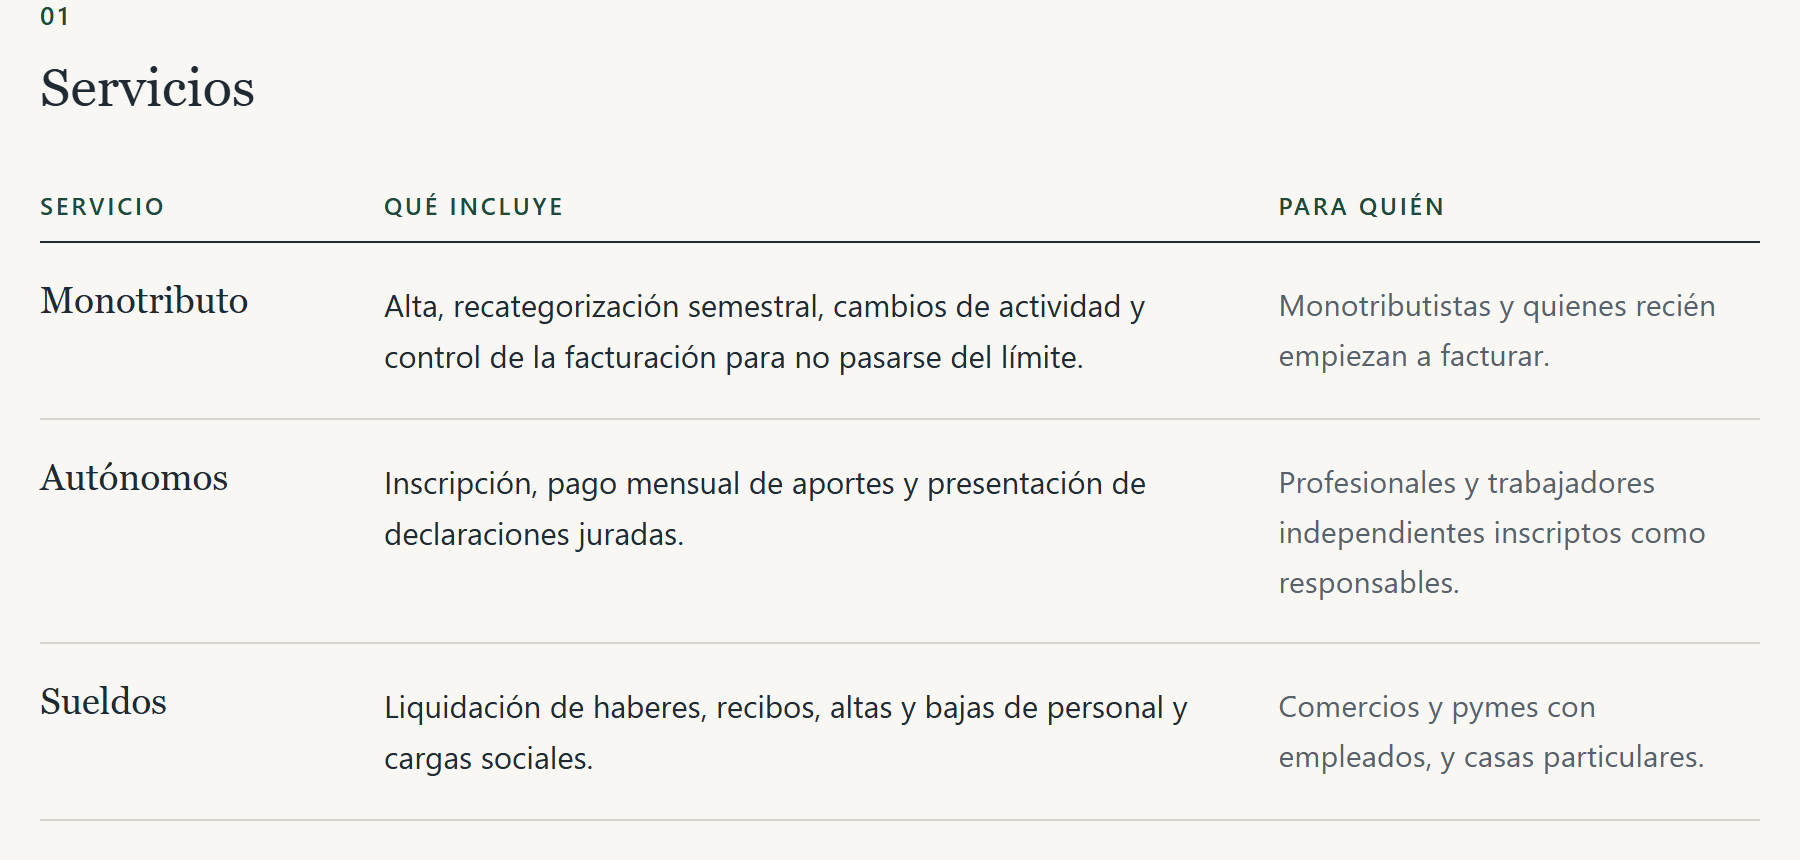
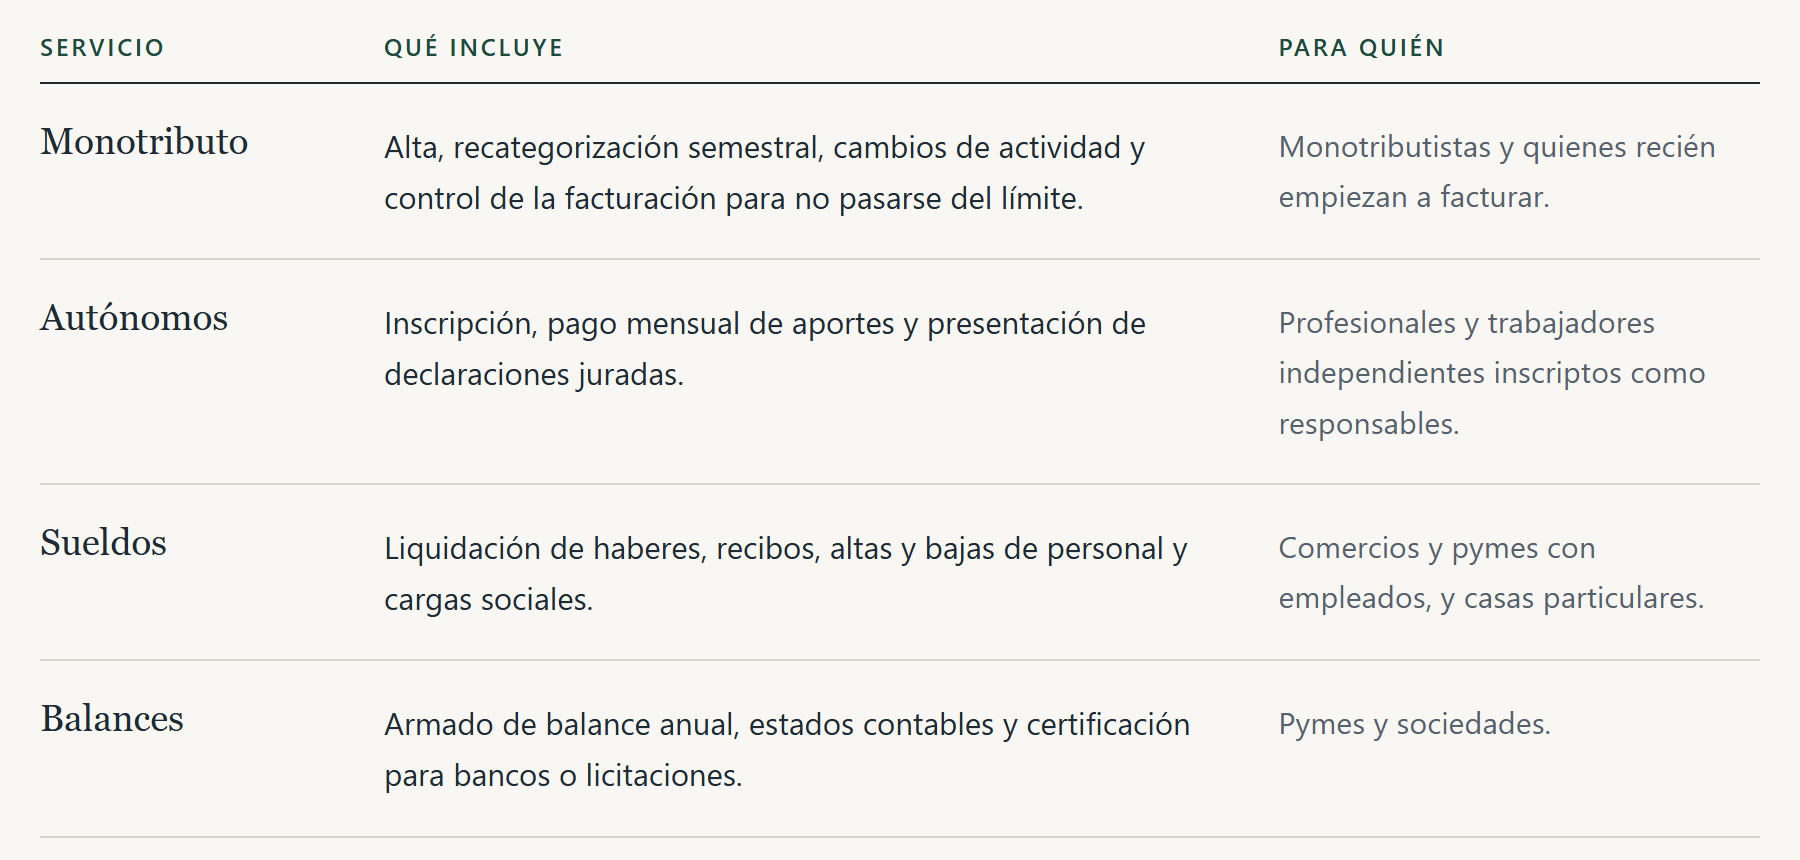
Presentación: estudio establecido, sin 'estudio chico'

diff --git a/index.html b/index.html
@@ -24,11 +24,11 @@
       <h1>Ordenamos las cuentas para que trabajes tranquilo.</h1>
     </div>
     <div class="presentacion-txt">
-      <p>Somos un estudio chico de Córdoba capital. Hace más de 25 años llevamos la contabilidad y los impuestos de monotributistas, pymes y profesionales independientes. Atiende el mismo equipo de siempre, y cada cliente tiene un contador a cargo al que le puede escribir o llamar.</p>
-      <p>Trabajamos con pocos clientes por contador a propósito: preferimos conocer tu actividad antes que cargar números sin entenderlos.</p>
+      <p>Somos un estudio contable de Córdoba capital con más de 25 años de trayectoria. Nuestro equipo de contadores públicos y analistas lleva la contabilidad, los impuestos y la liquidación de sueldos de monotributistas, pymes, profesionales independientes y empresas.</p>
+      <p>Cada cliente tiene un contador a cargo, que conoce su actividad y al que puede escribir o llamar.</p>
       <dl class="datos">
         <div><dt>Años de trayectoria</dt><dd>27</dd></div>
-        <div><dt>Clientes</dt><dd>Monotributistas, pymes y profesionales</dd></div>
+        <div><dt>Clientes</dt><dd>Monotributistas, pymes, profesionales y empresas</dd></div>
       </dl>
     </div>
   </section>
